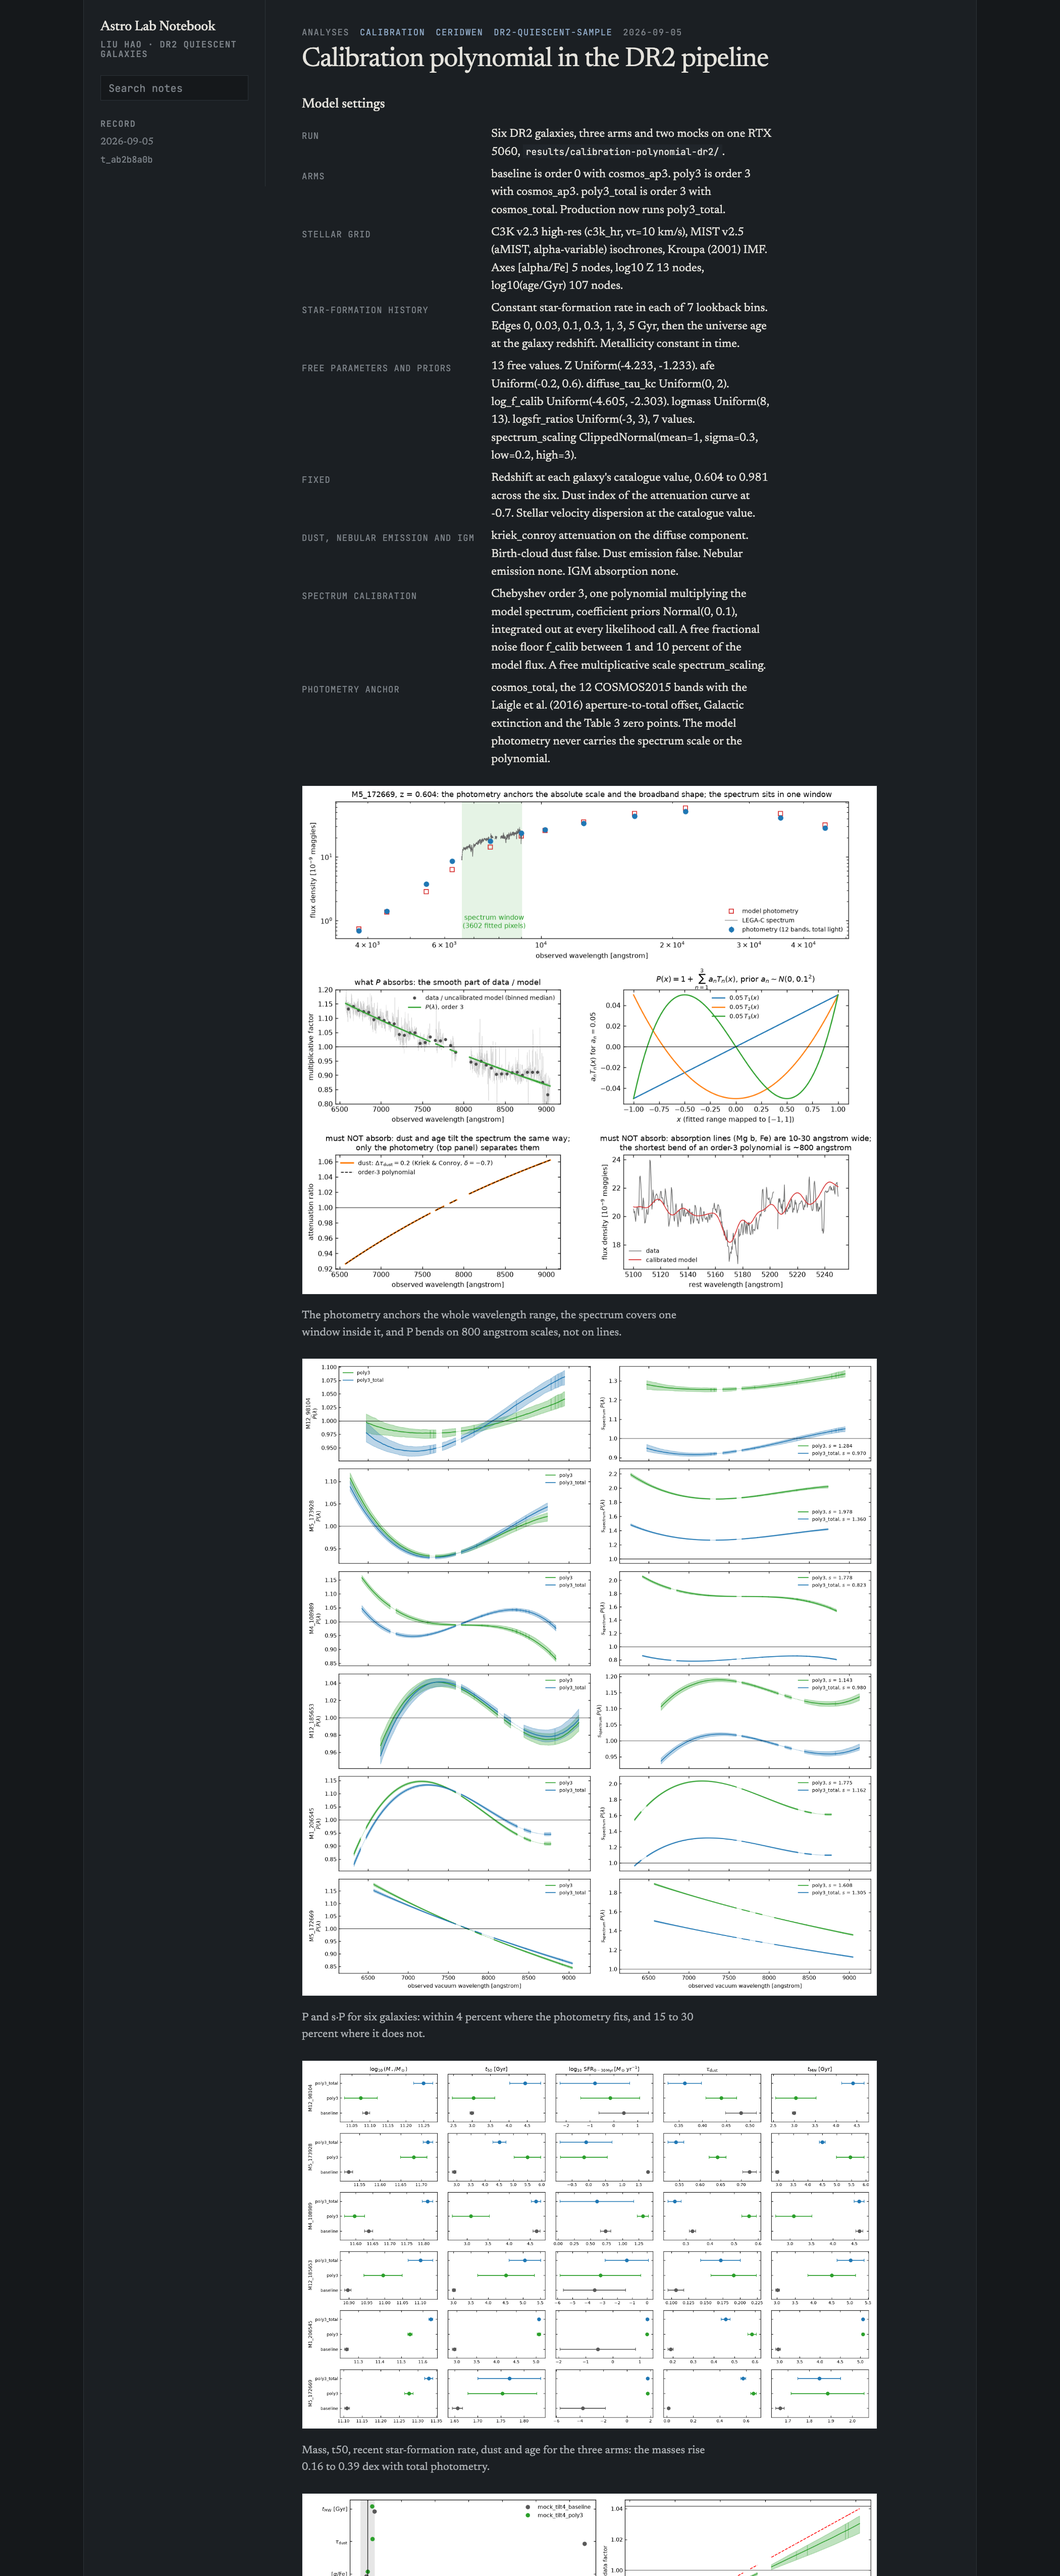
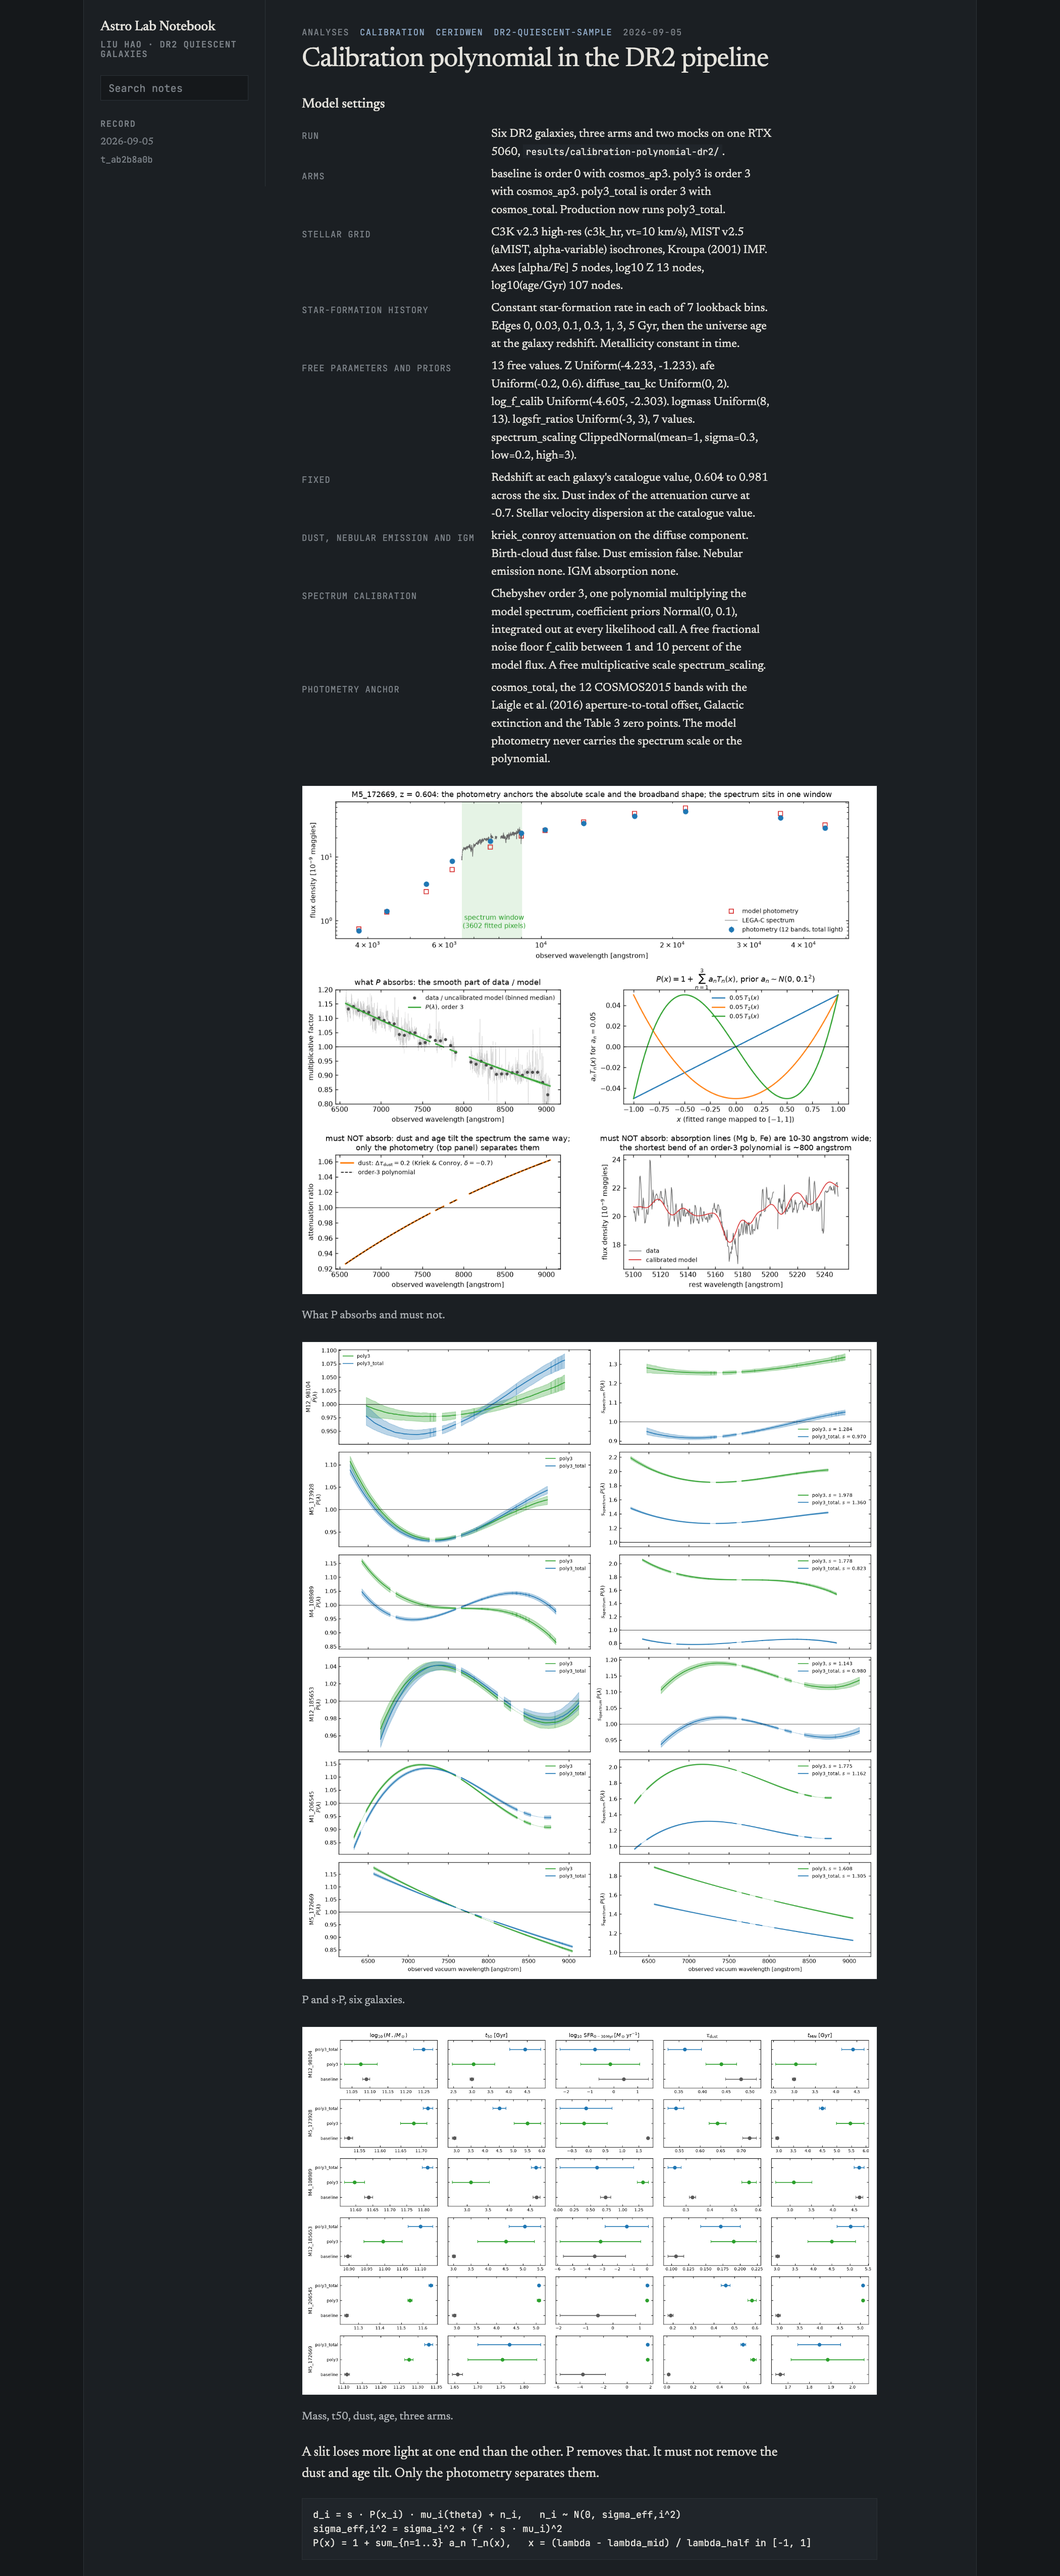
Wiki: keep only the figures Liu Hao asked for on the two notes
His card comment overrides the brief. The calibration page keeps the
explainer, the calibration curves and the before/after parameters, and
loses the tilted mock and the six per-galaxy chi-squared figures. The
per-galaxy page keeps only the photometric chi-squared, spectral
chi-squared and t10/t20/t50 figures of M1_210210, and loses the two
sample-wide summaries. Nothing moved into Details, they are deleted.

Visible prose is now the paragraph plus the captions, inside 50 words per
page: 48 on the calibration note, 26 on the per-galaxy note. Each caption
is one short clause. The Model settings block is a list and stays.

Report and the three screenshots updated.

Claude-Session: https://claude.ai/code/session_015PGgi97U3c3ULwNWP4dVmq

Changed region(s): [[0.2786, 0.4988, 0.8357, 1.0]]

diff --git a/reports/astro-notes-rewrite-2026-09-06.md b/reports/astro-notes-rewrite-2026-09-06.md
@@ -4,19 +4,21 @@ Job t_44a42fb9 · 2026-09-06 · branch `absorption-mask` · screenshots in `repo
 
 ## What happened
 
-The three notes explained the idea back to you. They now show the work instead. Each one opens with the title, then a short block of the settings the fits actually ran with, then the figures. Under each figure is one sentence: what it plots, and the number that matters. Everything that was argument, table, run log or reproduction step is either behind a collapsed "Details" block at the foot of the page, or in the report that already held it.
+The three notes explained the idea back to you. They now show the work instead. Each one opens with the title, then a short block of the settings the fits actually ran with, then the figures. Under each figure is one short clause. Everything that was argument, table, run log or reproduction step is either behind a collapsed "Details" block at the foot of the page, or in the report that already held it.
 
 The originals are kept, unchanged, in `wiki/_old/`.
 
 ## The three pages
 
-| Page | Shape now |
+| Page | What is on it |
 | --- | --- |
-| `wiki/notes/calibration-polynomial-dr2.md` | Model settings, the explainer diagram, the calibration curves, the before/after parameters, the tilted mock, the six per-galaxy χ² figures, one four-sentence paragraph on what the polynomial absorbs, the equation once, then Details |
-| `wiki/notes/per-galaxy-fit-diagnostics.md` | Model settings, the two sample-wide figures, the three figures of the example galaxy M1_210210, then Details |
-| `wiki/notes/per-galaxy-diagnostics-gallery.md` | Model settings once, then 187 sections, each labelled with its target, redshift and S/N, each carrying photometric χ², spectral χ² and t10/t20/t50 in that order |
+| `wiki/notes/calibration-polynomial-dr2.md` | Model settings, the explainer diagram, the calibration curves, the before/after parameters, a four-sentence paragraph on what the polynomial absorbs, the equation once, then Details |
+| `wiki/notes/per-galaxy-fit-diagnostics.md` | Model settings, then the photometric χ², spectral χ² and t10/t20/t50 figures of M1_210210, then Details |
+| `wiki/notes/per-galaxy-diagnostics-gallery.md` | Model settings once, then 187 sections, each labelled with its target, redshift and S/N, each carrying the same three figures in the same order |
 
-The gallery is written by `scripts/per_galaxy_diagnostics.py gallery`, so the new shape had to go into the generator, not only into the file. That is the one code change: a new `model_settings_block()` reads the settings out of the result files, and `write_gallery_note()` emits the settings block, the per-galaxy labels and the one-sentence captions.
+The tilted mock and the six per-galaxy χ² figures are gone from the calibration page. The two sample-wide summary figures are gone from the diagnostics page. All of them are deleted from the pages, not moved into Details. The figure files stay where they were, and the numbers they carried are still in `reports/astro-calibration-2026-09-06.md` and `reports/astro-chisq-sf-plots-2026-09-06.md`.
+
+The gallery is written by `scripts/per_galaxy_diagnostics.py gallery`, so its shape had to go into the generator, not only into the file. That is the one code change: a new `model_settings_block()` reads the settings out of the result files, and `write_gallery_note()` emits the settings block, the per-galaxy labels and the captions.
 
 ## Where the Model settings block comes from
 
@@ -30,14 +32,20 @@ Nothing in it is typed by hand. `model_settings_block(target_dir)` opens that fi
 
 The calibration note covers three arms, so its block carries an extra `Arms` row and states the production default. Its numbers were read the same way, from `results/calibration-polynomial-dr2/poly3_total/185653-M12_185653/` and that run's `execution.log`.
 
+## The 50-word budget
+
+Visible prose is the paragraph plus the captions. The Model settings block is a list, so it does not count.
+
+| Page | Paragraph and headings | Captions | Total |
+| --- | --- | --- | --- |
+| calibration-polynomial-dr2 | 30 | 18 | 48 |
+| per-galaxy-fit-diagnostics | 4 | 22 | 26 |
+
+The gallery is the exception, and it cannot meet the same figure. It carries 561 captions, so any per-caption length sums past 50 words. Each caption is one sentence of 25 words or fewer. They cannot be cut to a bare clause either: `html_text_lint.py` treats every gallery figure as scientific, because the run directory name contains the word "spectrum", and it then requires the caption to state the quantity, the sample, the uncertainty, the comparison and the caveat. The figures on the other two pages are not flagged that way, so their captions are clauses.
+
 ## A gate landed while this ran
 
-Another card was rewriting `wiki/build.py` at the same time. Its build now refuses to publish a note whose visible body runs past 50 words, and refuses any figure caption longer than one sentence. That is the same complaint from the other direction, so the notes were written to pass it rather than around it. Two consequences worth knowing:
-
-- Captions are one sentence, not two. The interpretation that a second sentence would have carried sits in the figure itself or in the sibling note.
-- The gallery cannot use 187 headings, because headings count against the 50 words. Each galaxy is labelled with a definition-list row instead, which reads as a section label and does not count. A `## Galaxies` heading separates the first one from the settings block.
-
-`wiki/build.py` is left uncommitted, because that card is still editing it. The three notes need its collapsed-block support to render, so it must land before the pages are correct on the server.
+Another card (t_55e4f1c9) was rewriting `wiki/build.py` at the same time. Its build refuses to publish a note whose visible body runs past 50 words, and refuses any figure caption longer than one sentence. The notes were written to pass it. `wiki/build.py` is left uncommitted and untouched, because that card owns it. The three notes need its collapsed-block support to render, so it must land before the pages are correct on the server.
 
 ## Checks
 
@@ -45,14 +53,10 @@ Another card was rewriting `wiki/build.py` at the same time. Its build now refus
 | --- | --- |
 | `python3 wiki/build.py` | built 28 notes, no faults |
 | `python3 wiki/tests/run_tests.py` | all tests passed, 39 checks |
-| `python3 ~/.claude/scripts/hermes-bridge/html_text_lint.py` on the three pages | 0 issues each |
+| `html_text_lint.py` on the three pages | 0 issues each |
 | Same lint on the front, by-date and by-topic pages | 0 issues |
 | Screenshots at 1400 px wide from `http://127.0.0.1:8765/wiki/` | three PNGs beside this report |
 
-The lint treats every gallery figure as scientific, because the run directory name contains the word "spectrum". Its captions therefore state the quantity, the sample, the uncertainty, the comparison and the caveat inside one sentence of 25 words or fewer.
+## Open item
 
-## Decisions taken here
-
-- The tilted-mock figure stays on the calibration page. The request listed four figures by name and did not mention it, but it is the only direct evidence that the polynomial leaves the physics alone.
-- The paragraph on what the polynomial absorbs is four sentences, not six. Six did not fit the 50-word body budget.
-- Per-galaxy tables and flag lists are gone from the gallery. The numbers that mattered are now in the captions, and the full table stays at `results/per-galaxy-diagnostics.csv`.
+The gallery keeps a per-galaxy table's worth of numbers only inside its captions. The full table stays at `results/per-galaxy-diagnostics.csv`.

diff --git a/wiki/notes/calibration-polynomial-dr2.md b/wiki/notes/calibration-polynomial-dr2.md
@@ -37,57 +37,20 @@ Photometry anchor
 
 <figure>
 <img src="figures/calibration-polynomial-dr2/calibration-explainer.png" alt="Explainer: fitted polynomial on M12_185653, calibration vector with band, dust tilt against an order-1 polynomial, shortest bend against line widths">
-<figcaption>The photometry anchors the whole wavelength range, the spectrum covers one window inside it, and P bends on 800 angstrom scales, not on lines.</figcaption>
+<figcaption>What P absorbs and must not.</figcaption>
 </figure>
 
 <figure>
 <img src="figures/calibration-polynomial-dr2/polynomial-vectors.png" alt="P of lambda and s times P of lambda with 16 to 84 percent bands for the six galaxies and the two polynomial arms">
-<figcaption>P and s·P for six galaxies: within 4 percent where the photometry fits, and 15 to 30 percent where it does not.</figcaption>
+<figcaption>P and s·P, six galaxies.</figcaption>
 </figure>
 
 <figure>
 <img src="figures/calibration-polynomial-dr2/parameters-before-after.png" alt="Mass, t50, SFR, dust and mass-weighted age for the three arms of each galaxy">
-<figcaption>Mass, t50, recent star-formation rate, dust and age for the three arms: the masses rise 0.16 to 0.39 dex with total photometry.</figcaption>
+<figcaption>Mass, t50, dust, age, three arms.</figcaption>
 </figure>
 
-<figure>
-<img src="figures/calibration-polynomial-dr2/mock-tilt.png" alt="Mock with a 4 percent tilt: injected and recovered calibration vector, and the parameter pulls without and with the polynomial">
-<figcaption>A 4 percent tilt injected on the spectrum alone: dust lands 32 sigma from the truth without P and 0.7 sigma with it.</figcaption>
-</figure>
-
-<figure>
-<img src="figures/calibration-polynomial-dr2/chi2-M12_98104.png" alt="M12_98104: pull per fitted pixel and cumulative chi-squared for the three arms">
-<figcaption>Three arms of M12_98104, pull and cumulative chi-squared: every difference sits inside the run-to-run scatter.</figcaption>
-</figure>
-
-<figure>
-<img src="figures/calibration-polynomial-dr2/chi2-M5_173928.png" alt="M5_173928: pull per fitted pixel and cumulative chi-squared for the three arms">
-<figcaption>Three arms of M5_173928, pull and cumulative chi-squared: photometric chi-squared 143 to 48, and P is a 7 to 10 percent bowl.</figcaption>
-</figure>
-
-<figure>
-<img src="figures/calibration-polynomial-dr2/chi2-M4_108989.png" alt="M4_108989: pull per fitted pixel and cumulative chi-squared for the three arms">
-<figcaption>Three arms of M4_108989, pull and cumulative chi-squared: photometric chi-squared 139 to 13 and t50 back at 4.6 Gyr.</figcaption>
-</figure>
-
-<figure>
-<img src="figures/calibration-polynomial-dr2/chi2-M12_185653.png" alt="M12_185653: pull per fitted pixel and cumulative chi-squared for the three arms">
-<figcaption>Three arms of M12_185653, pull and cumulative chi-squared: photometric chi-squared 37 to 11 and P within 4 percent.</figcaption>
-</figure>
-
-<figure>
-<img src="figures/calibration-polynomial-dr2/chi2-M1_206545.png" alt="M1_206545: pull per fitted pixel and cumulative chi-squared for the three arms">
-<figcaption>Three arms of M1_206545, pull and cumulative chi-squared: raw chi-squared down 4191, but P is a 15 percent hump.</figcaption>
-</figure>
-
-<figure>
-<img src="figures/calibration-polynomial-dr2/chi2-M5_172669.png" alt="M5_172669: pull per fitted pixel and cumulative chi-squared for the three arms">
-<figcaption>Three arms of M5_172669, pull and cumulative chi-squared: P is a 28 percent tilt and dust goes from 0.01 to 0.6.</figcaption>
-</figure>
-
-## What the polynomial absorbs
-
-A slit loses more light at one end of the range than the other. The polynomial removes that smooth loss. It must not remove the tilt that dust and stellar age make. Only the photometry tells them apart.
+A slit loses more light at one end than the other. P removes that. It must not remove the dust and age tilt. Only the photometry separates them.
 
 ```
 d_i = s · P(x_i) · mu_i(theta) + n_i,   n_i ~ N(0, sigma_eff,i^2)

diff --git a/wiki/notes/per-galaxy-fit-diagnostics.md b/wiki/notes/per-galaxy-fit-diagnostics.md
@@ -32,33 +32,21 @@ Spectrum calibration
 Photometry anchor
 : cosmos_ap3, the 12 COSMOS2015 3 arcsecond aperture fluxes with total IRAC and no offsets. The model photometry never carries the spectrum scale or a calibration polynomial.
 
-## Sample
-
-<figure>
-<img src="figures/per-galaxy-diagnostics/photometry-summary.png" alt="Median photometric pull per band over all galaxies, mean chi-squared contribution per band, and the histogram of photometric chi-squared per band">
-<figcaption>Median pull per band over 187 galaxies, the mean chi-squared per band, and its spread: the two IRAC bands carry half of it.</figcaption>
-</figure>
-
-<figure>
-<img src="figures/per-galaxy-diagnostics/sf-timescale-summary.png" alt="Galaxies sorted by t50 with t10 to t90 bands, t_X against redshift, and histograms of t10, t50 and t90">
-<figcaption>Formation times t10 to t90 for 187 galaxies, sorted by t50 and against redshift: sample medians 4.64, 3.02 and 1.39 Gyr.</figcaption>
-</figure>
-
 ## Example: M1_210210
 
 <figure>
 <img src="figures/per-galaxy-diagnostics/M1_210210-photometric_chi2.png" alt="M1_210210: per-band pull and chi-squared contribution against wavelength">
-<figcaption>Pull of the 12 fitted fluxes of galaxy M1_210210 against the model: 116.2 over 12 bands with a 5 percent error floor.</figcaption>
+<figcaption>Pull and chi-squared per band, 116.2 over 12 bands.</figcaption>
 </figure>
 
 <figure>
 <img src="figures/per-galaxy-diagnostics/M1_210210-spectral_chi2.png" alt="M1_210210: per-pixel pull, binned mean pull squared and cumulative chi-squared against wavelength with masked windows and outliers marked">
-<figcaption>Pull of 3523 fitted spectrum pixels of galaxy M1_210210 against the model: 1.11 per pixel at a 4.62 percent error floor.</figcaption>
+<figcaption>Pull per fitted pixel, 1.11 per pixel over 3523.</figcaption>
 </figure>
 
 <figure>
 <img src="figures/per-galaxy-diagnostics/M1_210210-sf_timescales.png" alt="M1_210210: fraction of final mass formed earlier than each lookback time with t10 to t90 and their posterior intervals">
-<figcaption>Mass formed in galaxy M1_210210 against lookback time: t10 6.99, t50 4.68, t90 1.50 Gyr, only a 16-84 percent range.</figcaption>
+<figcaption>Mass formed before each lookback time, t50 4.68 Gyr.</figcaption>
 </figure>
 
 <details>
